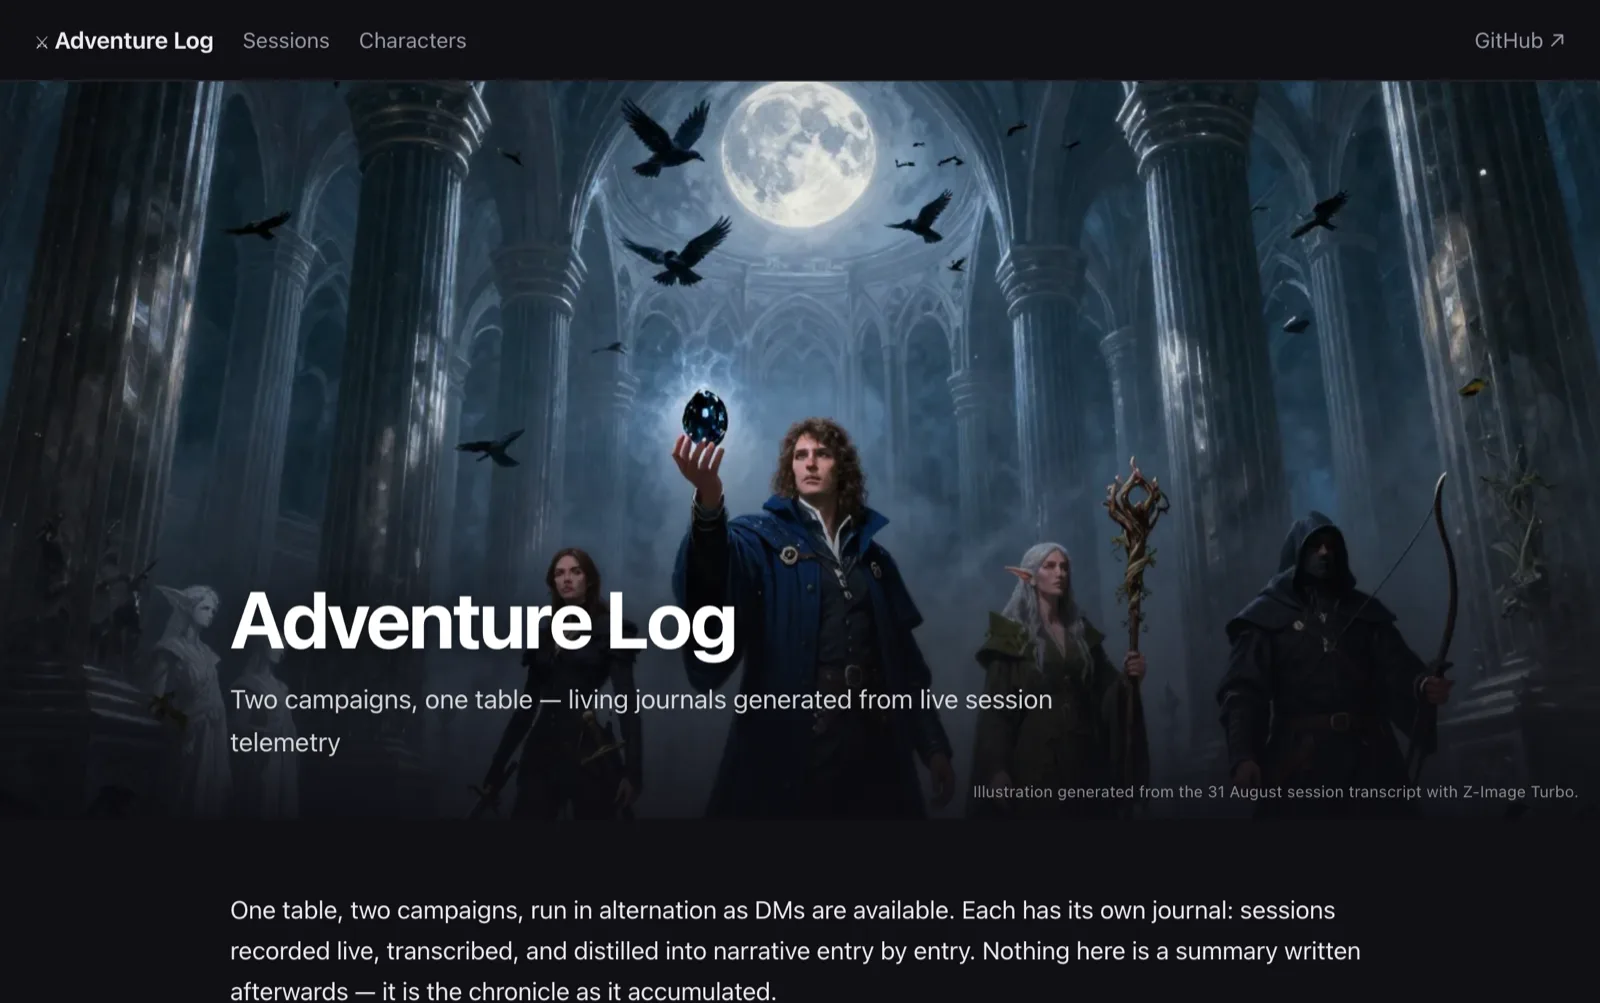
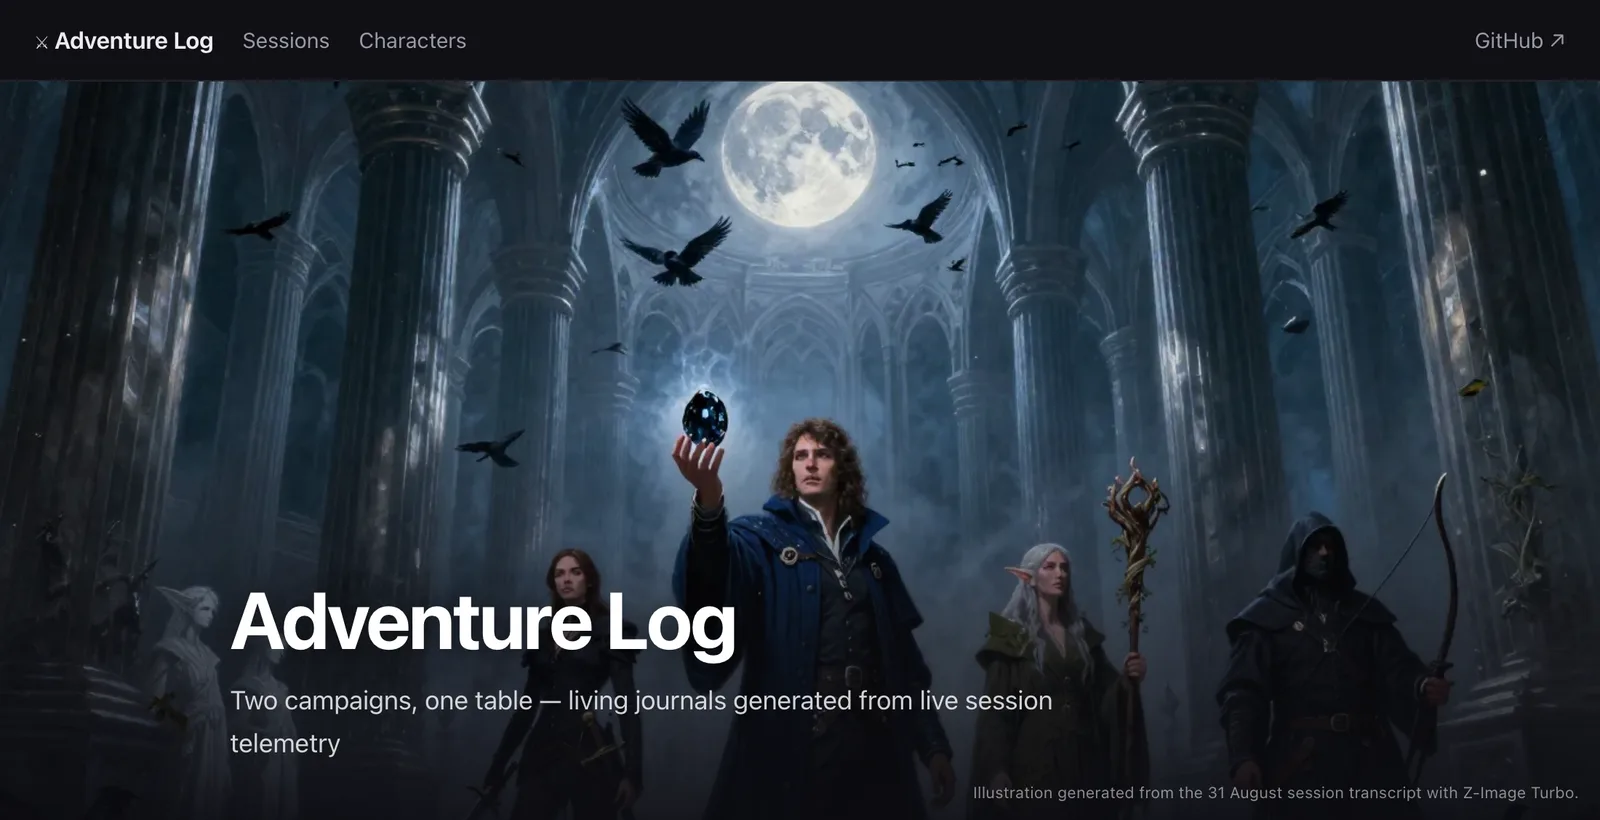
End the journal card at the opener, not mid-paragraph
The capture ran into the first paragraph under the art, and its last line
sat on the card's bottom edge. It now stops where the opener does.

diff --git a/site/index.html b/site/index.html
@@ -125,7 +125,7 @@
     moment.</figcaption>
   </figure>
   <figure class="wide">
-    <a href="/guide/worked-example/"><img src="/guide/images/adventure-log-home.webp" alt="Adventure Log, a D&amp;D campaign journal built from Transcripts' documents: a painted party of four adventurers entering a moonlit fey hall full of crows, under the journal's title" loading="lazy" width="1600" height="1003"></a>
+    <a href="/guide/worked-example/"><img src="/guide/images/adventure-log-home.webp" alt="Adventure Log, a D&amp;D campaign journal built from Transcripts' documents: a painted party of four adventurers entering a moonlit fey hall full of crows, under the journal's title" loading="lazy" width="1600" height="820"></a>
     <figcaption><strong>And what other programs make of them.</strong> One table
     records its D&amp;D nights with Transcripts, and another program turns each
     night's documents into a public campaign journal.
